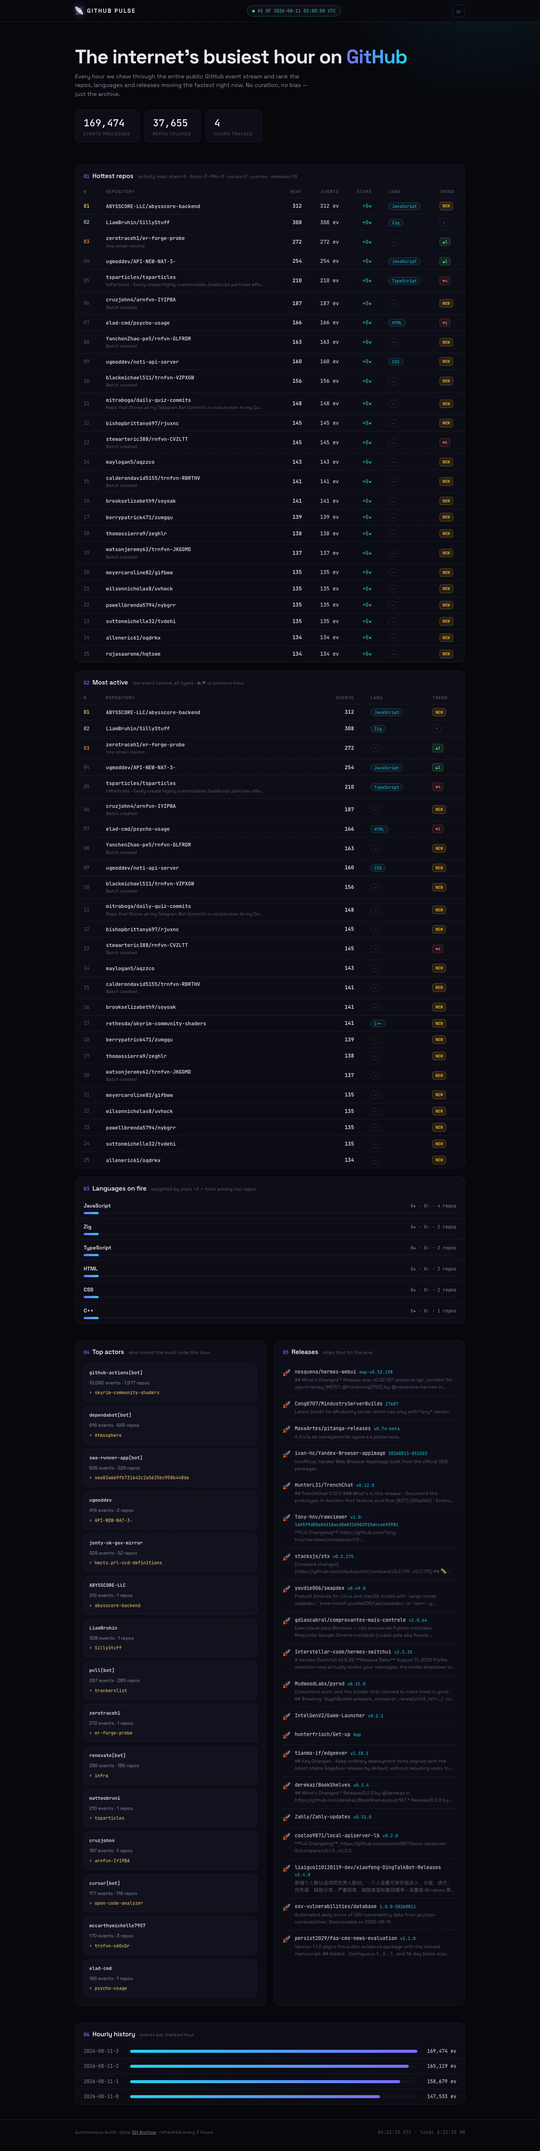
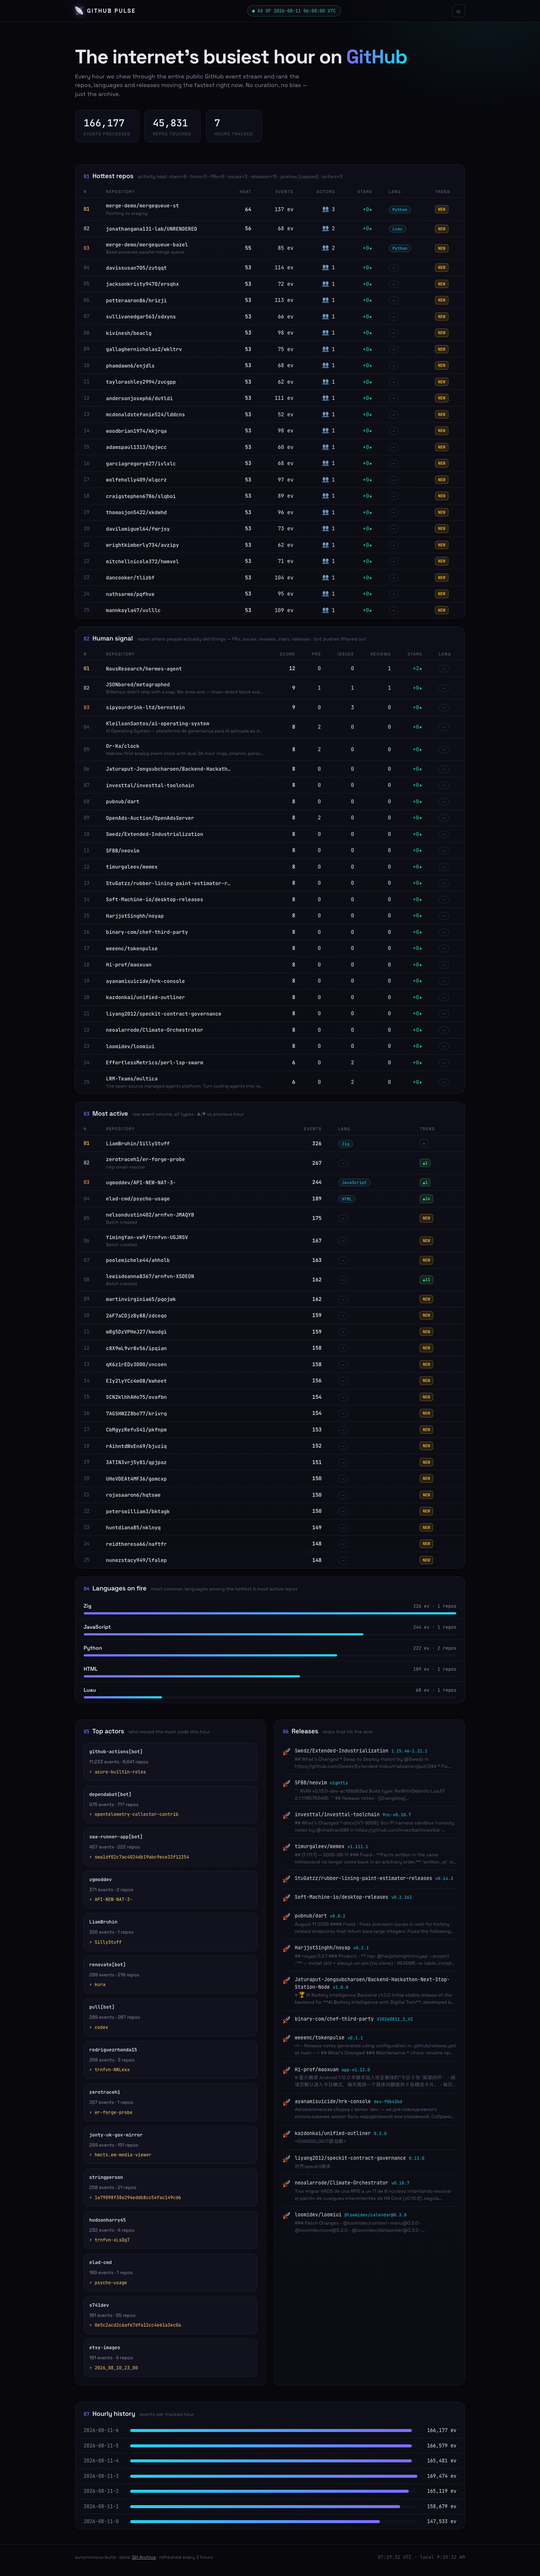
run 3: anti-spam heat (actor diversity, capped pushes), real prev-hour trends, human-signal ranking + panel, events-based languages, headless verify

diff --git a/site/app.js b/site/app.js
@@ -41,12 +41,13 @@
         <td>${repoCell(r)}</td>
         <td class="num hot">${fmt.format(r.heat || 0)}</td>
         <td class="num">${fmt.format(r.events || 0)} ev</td>
+        <td class="num">👥 ${fmt.format(r.actors || 0)}</td>
         <td class="num pos">+${fmt.format(r.stars || 0)}★</td>
         <td>${chip(r.language)}</td>
         <td>${trendBadge(r)}</td>
       </tr>`).join('');
     $('gainers-body').innerHTML = rows
-      ? `<table><thead><tr><th>#</th><th>repository</th><th style="text-align:right">heat</th><th style="text-align:right">events</th><th style="text-align:right">stars</th><th>lang</th><th>trend</th></tr></thead><tbody>${rows}</tbody></table>`
+      ? `<table><thead><tr><th>#</th><th>repository</th><th style="text-align:right">heat</th><th style="text-align:right">events</th><th style="text-align:right">actors</th><th style="text-align:right">stars</th><th>lang</th><th>trend</th></tr></thead><tbody>${rows}</tbody></table>`
       : '<div class="empty">quiet hour — no meaningful activity recorded</div>';
   }
 
@@ -64,18 +65,36 @@
       : '<div class="empty">no activity recorded this hour</div>';
   }
 
+  function renderHuman(s) {
+    const rows = (s.top_human || []).map((r, i) => `
+      <tr>
+        <td class="rank ${rankCls(i)}">${String(i + 1).padStart(2, '0')}</td>
+        <td>${repoCell(r)}</td>
+        <td class="num hot">${fmt.format(r.human || 0)}</td>
+        <td class="num">${fmt.format(r.prs || 0)}</td>
+        <td class="num">${fmt.format(r.issues || 0)}</td>
+        <td class="num">${fmt.format(r.reviews || 0)}</td>
+        <td class="num pos">+${fmt.format(r.stars || 0)}★</td>
+        <td>${chip(r.language)}</td>
+        <td>${trendBadge(r)}</td>
+      </tr>`).join('');
+    $('human-body').innerHTML = rows
+      ? `<table><thead><tr><th>#</th><th>repository</th><th style="text-align:right">score</th><th style="text-align:right">PRs</th><th style="text-align:right">issues</th><th style="text-align:right">reviews</th><th style="text-align:right">stars</th><th>lang</th><th>trend</th></tr></thead><tbody>${rows}</tbody></table>`
+      : '<div class="empty">no human-scale activity this hour</div>';
+  }
+
   function renderLangs(s) {
     const list = s.top_languages || [];
     if (!list.length) { $('langs-body').innerHTML = '<div class="empty">language data filling in — repos are being enriched</div>'; return; }
-    const max = Math.max(...list.map((l) => l.stars * 3 + l.forks), 1);
+    const max = Math.max(...list.map((l) => l.events || 0), 1);
     $('langs-body').innerHTML = list.map((l) => {
-      const score = l.stars * 3 + l.forks;
+      const score = l.events || 0;
       const pct = Math.max(4, Math.round((score / max) * 100));
       return `
       <div class="lang-row">
         <div class="lang-top">
           <span class="lang-name">${esc(l.language)}</span>
-          <span class="lang-meta">${fmt.format(l.stars)}★ · ${fmt.format(l.forks)}⑂ · ${fmt.format(l.repos)} repos</span>
+          <span class="lang-meta">${fmt.format(l.events)} ev · ${fmt.format(l.repos)} repos</span>
         </div>
         <div class="lang-bar"><div class="lang-fill" style="width:${pct}%"></div></div>
       </div>`;
@@ -152,6 +171,7 @@
       $('stat-events').textContent = fmt.format(s.events || 0);
       $('stat-repos').textContent = fmt.format(s.repos_seen || 0);
       renderGainers(s);
+      renderHuman(s);
       renderActive(s);
       renderLangs(s);
       renderNew(s);

diff --git a/site/index.html b/site/index.html
@@ -40,14 +40,22 @@
   <section class="panel" id="panel-gainers">
     <div class="panel-head">
       <h2><span class="h-num">01</span> Hottest repos</h2>
-      <span class="panel-sub">activity heat: stars×5 · forks×3 · PRs×3 · issues×2 · pushes · releases×10</span>
+      <span class="panel-sub">activity heat: stars×8 · forks×5 · PRs×5 · issues×3 · releases×15 · pushes (capped) · actors×3</span>
     </div>
     <div class="table-wrap" id="gainers-body"><div class="empty">loading…</div></div>
   </section>
 
+  <section class="panel" id="panel-human">
+    <div class="panel-head">
+      <h2><span class="h-num">02</span> Human signal</h2>
+      <span class="panel-sub">repos where people actually did things — PRs, issues, reviews, stars, releases · bot pushes filtered out</span>
+    </div>
+    <div class="table-wrap" id="human-body"><div class="empty">loading…</div></div>
+  </section>
+
   <section class="panel" id="panel-active">
     <div class="panel-head">
-      <h2><span class="h-num">02</span> Most active</h2>
+      <h2><span class="h-num">03</span> Most active</h2>
       <span class="panel-sub">raw event volume, all types · ▲/▼ vs previous hour</span>
     </div>
     <div class="table-wrap" id="active-body"><div class="empty">loading…</div></div>
@@ -55,8 +63,8 @@
 
   <section class="panel" id="panel-langs">
     <div class="panel-head">
-      <h2><span class="h-num">03</span> Languages on fire</h2>
-      <span class="panel-sub">weighted by stars ×3 + forks among top repos</span>
+      <h2><span class="h-num">04</span> Languages on fire</h2>
+      <span class="panel-sub">most common languages among the hottest &amp; most active repos</span>
     </div>
     <div id="langs-body"><div class="empty">loading…</div></div>
   </section>
@@ -64,7 +72,7 @@
   <div class="cols">
     <section class="panel" id="panel-new">
       <div class="panel-head">
-        <h2><span class="h-num">04</span> Top actors</h2>
+        <h2><span class="h-num">05</span> Top actors</h2>
         <span class="panel-sub">who moved the most code this hour</span>
       </div>
       <div id="new-body"><div class="empty">loading…</div></div>
@@ -72,7 +80,7 @@
 
     <section class="panel" id="panel-releases">
       <div class="panel-head">
-        <h2><span class="h-num">05</span> Releases</h2>
+        <h2><span class="h-num">06</span> Releases</h2>
         <span class="panel-sub">ships that hit the wire</span>
       </div>
       <div id="releases-body"><div class="empty">loading…</div></div>
@@ -81,7 +89,7 @@
 
   <section class="panel" id="panel-history">
     <div class="panel-head">
-      <h2><span class="h-num">06</span> Hourly history</h2>
+      <h2><span class="h-num">07</span> Hourly history</h2>
       <span class="panel-sub">events per tracked hour</span>
     </div>
     <div id="history-body"><div class="empty">no history yet — this is the first sweep</div></div>
